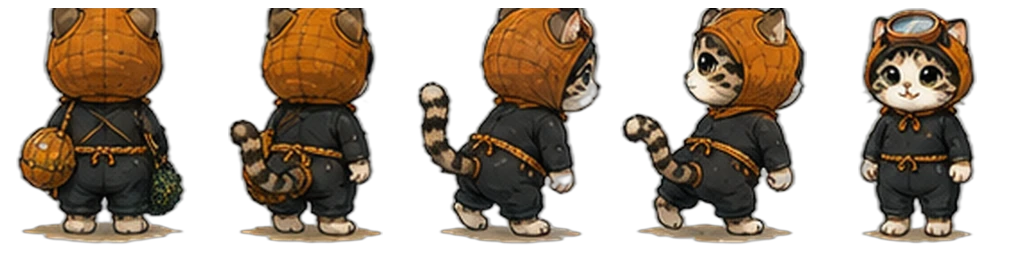
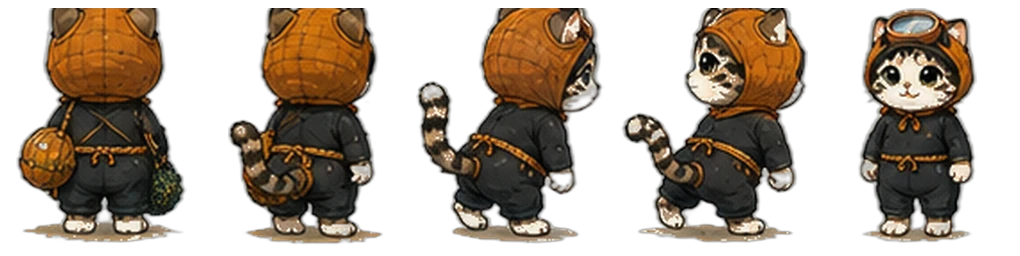
잠수복 자세 수정 — 발밑 그림자 제거 + 목 돌아감 해결
- 시트에서 딸려온 발밑 그림자 타원을 원본 단계에서 지우고 다시 오림
  (발끝은 온전하게 유지)
- 옆으로 걸을 때 고개가 어깨 너머를 보는 컷이 섞여 목이 돌아가
  보이던 것을, 정면 보는 옆걷기 컷 하나로 통일해 해결

diff --git a/game/jeju3d.js b/game/jeju3d.js
@@ -4984,11 +4984,10 @@ function updateSpriteLulu(groundY) {
       cell = 0;
     }
   } else if (SHEETS.wetsuitLand && inWetsuitZone()) {
-    // 포구 구역 — 해녀 시트에서 오린 잠수복 차림. 걸을 땐 옆모습 두 컷을 번갈아 딛습니다
+    // 포구 구역 — 해녀 시트에서 오린 잠수복 차림.
+    // (2번 컷은 고개가 어깨 너머를 보는 자세라 걷기에 쓰면 목이 돌아가 보여서 안 씁니다)
     sheet = SHEETS.wetsuitLand;
-    cell = view === 'back' ? 0
-         : view === 'front' ? 4
-         : (walking ? 2 + (Math.floor(state.walkPhase) % 2) : 3);
+    cell = view === 'back' ? 0 : view === 'front' ? 4 : 3;
   } else if (SHEETS.diveIdle && inWetsuitZone()) {
     // (시트가 없을 때의 예비 — 물속 대기 자세)
     sheet = SHEETS.diveIdle;

diff --git a/game/jeju3d.html b/game/jeju3d.html
@@ -508,6 +508,6 @@ if ('serviceWorker' in navigator && location.protocol !== 'file:') {
 </script>
 <script src="lib/three.min.js"></script>
 <!-- ?v= 뒤 숫자는 "캐시 무시용" 표시입니다. jeju3d.js를 고쳤는데 화면이 그대로면 숫자를 1 올리세요. -->
-<script src="jeju3d.js?v=60"></script>
+<script src="jeju3d.js?v=61"></script>
 </body>
 </html>
